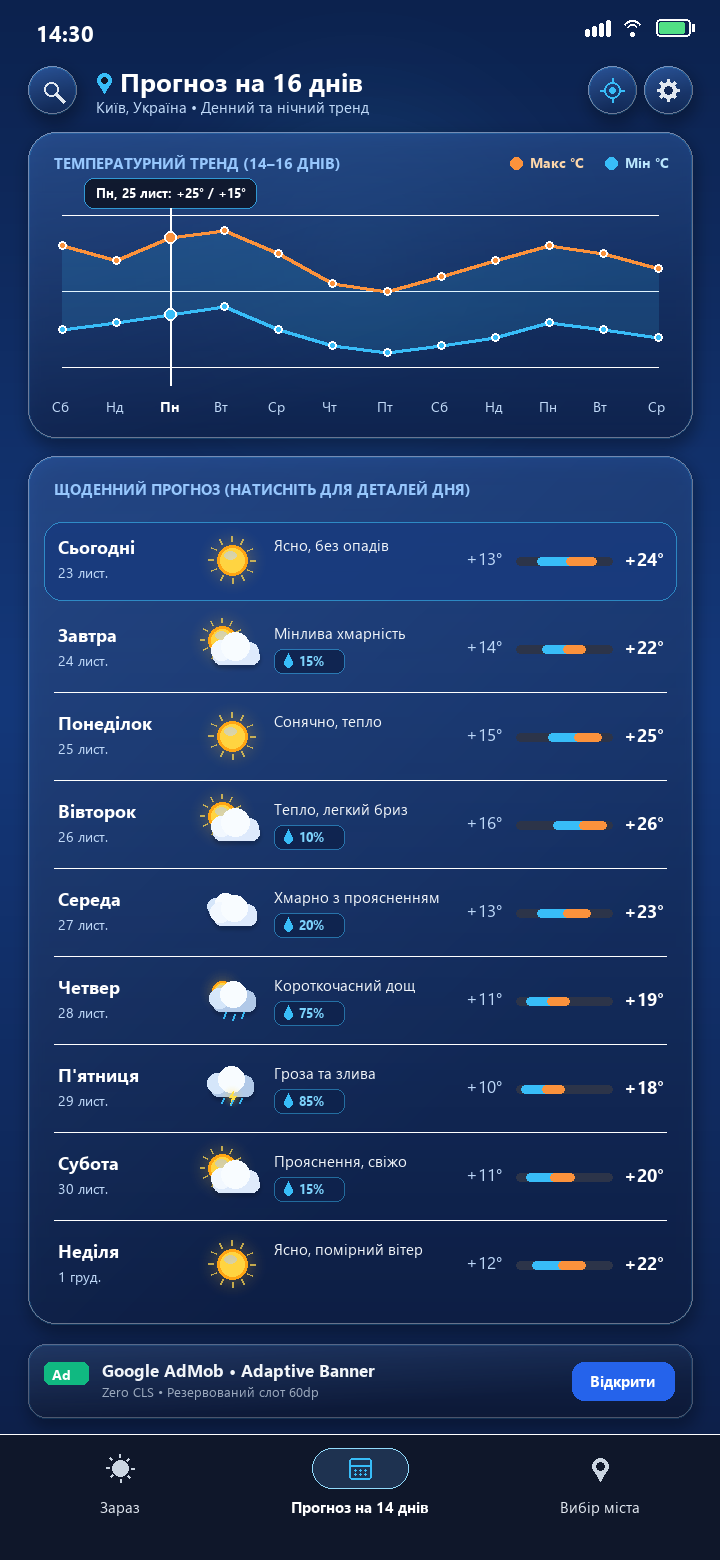
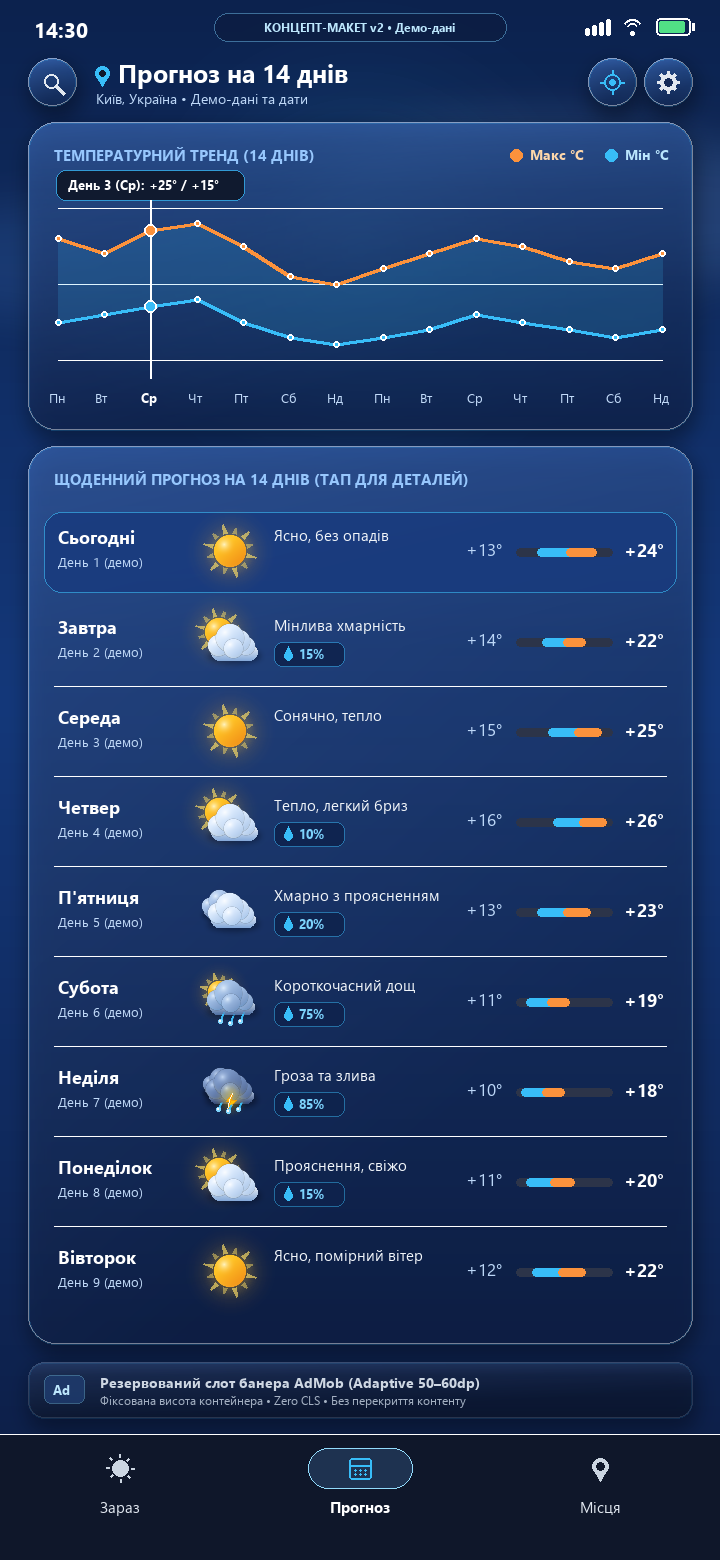
docs(design-recovery): refine Stage A PNG mockups to v2 with 3D volumetric weather art, multi-atmosphere city cards, clean settings, and demo badges

diff --git a/docs/design/VISUAL_DESIGN_RECOVERY_CONCEPT.md b/docs/design/VISUAL_DESIGN_RECOVERY_CONCEPT.md
@@ -335,3 +335,20 @@
 6. **Крок B6 — Автоматизована перевірка та незалежний QA Аудит (Agent 5):**
    - Прогін усіх unit-тестів (`testDebugUnitTest`, `testReleaseUnitTest`), перевірка контрастності WCAG в `WeatherMotionAndContrastTest`, строгий Android Lint (`0 errors`), збірка APK та перевірка реальних скриншотів на фізичному смартфоні **Samsung Galaxy S24 Ultra (`SM-S928B`)** незалежним аудитором Agent 5 (Червона лінія №9).
 
+---
+
+## 7. Фінальне художнє доопрацювання макетів (Версія v2 — Таблиця змін порівняно з v1)
+
+За результатами рецензії Власника (`# WEATHER — DESIGN RECOVERY STAGE A: FINAL VISUAL REFINEMENT`) виконано фінальне доопрацювання всіх 5 PNG-макетів (**версія v2**) без жодних змін у файлах Kotlin/XML:
+
+| № | Вимога Власника | Що було у версії v1 | Що реалізовано у фінальній версії v2 |
+|---|---|---|---|
+| **1** | **Художній рівень погодних ілюстрацій** | Базові плоскі кола та прості лінії променів/крапель із мінімальним градієнтом. | Повноцінне **багатошарове 3D-шейдування (`create_shaded_sphere`)**: об'ємне дифузне освітлення, спекулярні бліки, теплий підповерхневий рефлекс (`rim light`) від сонця на лівих частках хмар, багатопелюсткові скульптурні хмари з м'якою тінню (`ambient occlusion`), конічні сонячні промені з короною, 3D-серп місяця з 4-променевими зорями, глянцеві краплі дощу з відблиском і грозова блискавка з внутрішнім свіченням хмари. |
+| **2** | **Атмосферність та композиція головного екрана** | Стандартна прямокутна картка Hero без атмосферного серпанку та без швидких чіпів метрик. | **Відкрита атмосферна композиція Hero**: додано м'який атмосферний серпанок неба (`draw_atmospheric_cloud_haze`), внутрішнє радіальне свічення картки позаду великої 3D-ілюстрації (`scale=1.58`), скульптурну типографіку температури `112px` з оптично вирівняним знаком `°` та **3 скляні міні-капсули ключових показників** унизу Hero (`Вологість`, `Вітер Пн-Сх`, `Опади / УФ`). |
+| **3** | **Різні погодні атмосфери та акценти карток міст** | Усі 4 картки міст на екрані «Місця» мали майже однаковий синій градієнт. | Кожна картка міста на екрані «Місця» має **власну унікальну погодну атмосферу, радіальне світіння та акцентну рамку**: <br>• **Київ** — теплий сонячно-сапфіровий градієнт із золотистим ореолом;<br>• **Пшецлав** — глибокий аква-бірюзовий дощовий градієнт із блакитним сяйвом;<br>• **Варшава** — зоряний нічний індиго-градієнт із місячним сяйвом;<br>• **Львів** — драматичний фіолетово-індиговий грозовий градієнт з електричним бурштиновим спалахом. |
+| **4** | **Очищення екрана налаштувань від технічного жаргону** | Відображалися внутрішні технічні написи (`API v2 (16 днів / 384 год)`, `ACCESS_BACKGROUND_LOCATION`, `THIRD_PARTY.md`, `$0 Budget`). | Екран «Налаштування» **повністю очищено від розробницького жаргону**. Залишено чисті користувацькі секції: *«Одиниці вимірювання»* (`°C | °F`, `км/год | м/с`, `гПа | мм рт.ст.`), *«Інтерфейс та оформлення»* (Мова застосунку, Плавні погодні анімації), *«Віджети та геолокація»* та лаконічний блок *«Про застосунок»* із клікабельними рядками *«Політика конфіденційності»* й *«Ліцензії відкритого ПЗ»*. |
+| **5** | **Візуальне представлення рекламного слота** | Слот містив яскраву декоративну синю кнопку «Відкрити», схожу на фейковий банер. | Декоративну кнопку «Відкрити» **повністю прибрано**. Слот оформлено як стриманий напівпрозорий резервований контейнер `Ad • Резервований слот банера AdMob (Adaptive 50–60dp) • Фіксована висота контейнера • Zero CLS`. |
+| **6** | **Узгодження назв «14 днів» / «16 днів» та вкладки «Прогноз»** | Змішувалися написи «Прогноз на 14 днів» у вкладці та «16 днів / 14–16 днів» у заголовках. | Термінологію **повністю уніфіковано**: у нижній навігації використано коротку та чисту назву вкладки **«Прогноз»** (поруч із «Зараз» та «Місця» за незмінними кольорами `ADR-017`), а на самому екрані прогнозу скрізь узгоджено стандарт **«Прогноз на 14 днів»** (заголовок екрана, `Температурний тренд (14 днів)` на 14 точок, `Щоденний прогноз на 14 днів`). |
+| **7** | **Позначення демо-даних та дат на макетах** | Цифри та дати виглядали як жива відповідь API. | На всіх 5 макетах додано чітке маркування **`КОНЦЕПТ-МАКЕТ v2 • Демо-дані`** у верхній панелі, підписи `Демо-приклад` / `День 1..9 (демо)` у списку днів та примітку `Демо-дані на макеті • Джерело в застосунку: WeatherMetro`. |
+
+

diff --git a/docs/governance/CURRENT_STATE.md b/docs/governance/CURRENT_STATE.md
@@ -8,8 +8,8 @@
 
 ## 1. Загальний огляд
 
-- **Поточна дата й час:** 2026-11-24 05:00 (Europe/Warsaw)
-- **Поточний етап Roadmap:** **VISUAL DESIGN RECOVERY — Етап A (Design Recovery без програмування) — ВИКОНАНО / ОЧІКУЄТЬСЯ `Owner Design Approved` ДЛЯ ПЕРЕХОДУ ДО ЕТАПУ B** (За директивою Власника нові роботи з оптимізації Phase 6 призупинено. Жоден файл коду у `app/src/` не змінювався. Виконано порівняльний аудит 4 джерел `docs/design/VISUAL_DESIGN_RECOVERY_AUDIT.md`, розроблено концепцію «Sapphire Atmospheric Glass» `docs/design/VISUAL_DESIGN_RECOVERY_CONCEPT.md` та згенеровано 5 реальних PNG-макетів високої роздільної здатності `docs/design/recovery/01..05.png` для екранів «Зараз» [День/Ніч], «Прогноз», «Місця» та «Налаштування». Нижню панель навігації збережено за `ADR-017`).
+- **Поточна дата й час:** 2026-11-24 15:05 (Europe/Warsaw)
+- **Поточний етап Roadmap:** **VISUAL DESIGN RECOVERY — Етап A (Фінальне візуальне доопрацювання v2 без програмування) — ВИКОНАНО / ОЧІКУЄТЬСЯ `Owner Design Approved` ДЛЯ ПЕРЕХОДУ ДО ЕТАПУ B** (За результатами рецензії Власника підготовлено фінальну версію v2 п'яти PNG-макетів `docs/design/recovery/01..05.png` та таблицю змін v2 vs v1 у `docs/design/VISUAL_DESIGN_RECOVERY_CONCEPT.md`: багатошарові 3D-ілюстрації погоди з фізичним освітленням і теплим рефлексом, атмосферний головний екран із 3 скляними чіпами, 4 різні погодні атмосфери для карток міст, очищений від технічного жаргону екран налаштувань, резервований слот AdMob без кнопки «Відкрити», узгоджений стандарт «Прогноз на 14 днів» і коротка вкладка «Прогноз» за незмінними кольорами `ADR-017`, явне маркування демо-даних. Жоден файл `.kt` або `.xml` у `app/src/` не змінювався).
 - **Діючий артефакт:** Робочий проєкт із 115 успішними unit-тестами (230 перевірок у Debug та Release — 100% PASS), чистим строгим Lint (0 errors, 30 warnings, abortOnError = true, checkReleaseBuilds = true), успішно пройденими інструментальними тестами на фізичному смартфоні Samsung Galaxy S24 Ultra (2/2 PASS, 100%) та емуляторі (2/2 PASS, 100%), затвердженим виправленням контрастності Bottom Navigation Bar (`Owner Accepted`), 0 фонового GPS, 0% реклами у віджетах, 0 API-ключів у коді та незалежним QA-звітом.
 - **Підключений пристрій / Емулятор:** Фізичний смартфон **Samsung Galaxy S24 Ultra (`SM-S928B`, `RZCX326349A`)**.
 - **Бізнес-модель:** Розумна комерційна модель AdMob + WeatherMetro Free (0 грн витрат, $0.00 бюджет, 100% чистий прибуток Власника, ADR-009, ADR-010, ADR-011, ADR-014, ADR-015, ADR-016, ADR-017).

diff --git a/docs/governance/SESSION_LOG.md b/docs/governance/SESSION_LOG.md
@@ -127,3 +127,14 @@
   4. `04_locations_screen_recovery.png` — Екран «Місця» (Ілюстровані картки міст);
   5. `05_settings_screen_recovery.png` — Екран «Налаштування» (Скляні секції з сегментованими перемикачами одиниць).
 - Матеріали передано Власнику на розгляд для отримання **`Owner Design Approved`**.
+
+### 2026-11-24 15:05 — Фінальне художнє доопрацювання PNG-макетів Етапу A (Версія v2, без зміни коду)
+- Виконано всі 7 вимог Власника з директиви `# WEATHER — DESIGN RECOVERY STAGE A: FINAL VISUAL REFINEMENT` без жодних змін у `.kt` чи `.xml` файлах `app/src/`:
+  1. Посилено художній рівень погодних ілюстрацій (багатошарове 3D-шейдування сферичних об'ємів із дифузним світлом, спекулярним бліком, теплим підповерхневим рефлексом на хмарах, конічними променями сонця, 4-променевими зорями, глянцевими краплями дощу та внутрішнім спалахом грозової хмари).
+  2. Головний екран зроблено більш атмосферним і композиційно близьким до референсу (атмосферний серпанок неба, радіальне свічення картки Hero позаду 3D-ілюстрації, скульптурна температура `+21°` та 3 скляні міні-чіпи ключових показників унизу Hero).
+  3. Карткам міст на вкладці «Місця» надано 4 різні погодні атмосфери та кольорові акценти (Київ — теплий сонячний сапфір із золотим ореолом; Пшецлав — аква-бірюзовий дощ; Варшава — зоряний нічний індиго; Львів — фіолетово-індигова гроза з бурштиновим спалахом).
+  4. Екран «Налаштування» очищено від внутрішньої технічної інформації (`API v2 / 384 год`, `ACCESS_BACKGROUND_LOCATION`, `THIRD_PARTY.md`, `$0 Budget`).
+  5. Перероблено рекламний слот AdMob: прибрано декоративну кнопку «Відкрити», залишено стриманий резервований контейнер `Adaptive 50–60dp • Zero CLS`.
+  6. Узгоджено назви: коротка назва нижньої вкладки **«Прогноз»** (із збереженням висококонтрастних кольорів `ADR-017`) та єдиний стандарт **«Прогноз на 14 днів»** у заголовку, графіку тренду на 14 точок і списку днів.
+  7. Усі цифри та дати на макетах явно позначено як демонстраційні (`КОНЦЕПТ-МАКЕТ v2 • Демо-дані`, `День 1..9 (демо)`).
+- Оновлено 5 PNG-макетів v2 у `docs/design/recovery/` та додано таблицю змін v2 vs v1 у `docs/design/VISUAL_DESIGN_RECOVERY_CONCEPT.md`. Роботу зупинено до отримання **`Owner Design Approved`**.
